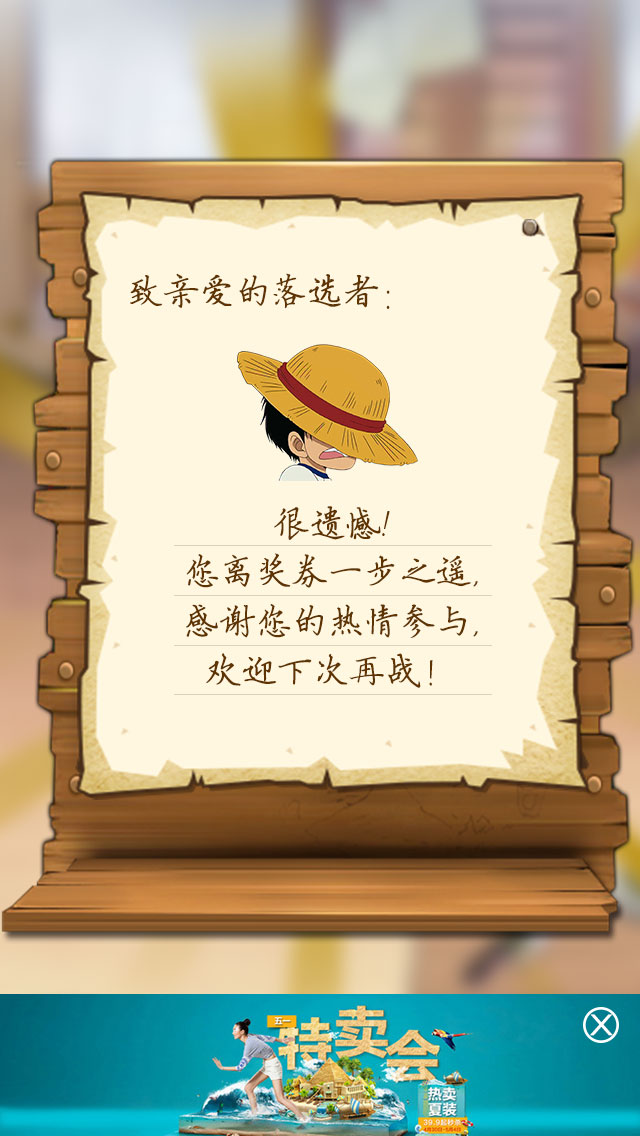
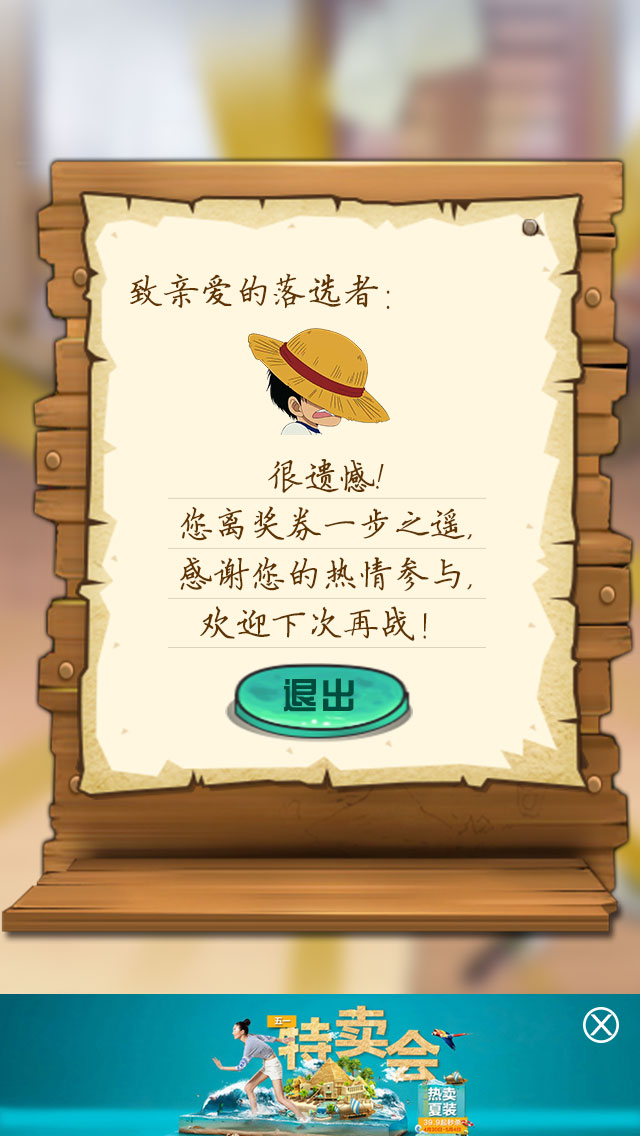
Exit Button
Add X Button on reward page, improve the toast.

Changed region(s): [[0.2812, 0.2773, 0.75, 0.6778]]

diff --git a/public/kiosk/assets/css/index.css b/public/kiosk/assets/css/index.css
@@ -1,5 +1,11 @@
 * { margin: 0; padding: 0; box-sizing: border-box; }
-body { font: 13px Helvetica, Arial; }
+body { 
+  font-size: 13px; 
+  font-family: Georgia, "Times New Roman", 
+             "Microsoft YaHei", "微软雅黑", 
+             STXihei, "华文细黑", 
+             serif;
+}
 
 .kiosk-wrap {
   position: relative;
@@ -141,70 +147,6 @@ section[class^="step"] {
 .countdown_go {
     background: url('../img/cd_go.png') no-repeat;
 }
-
-/*@-webkit-keyframes countdown {
-    0% {
-        background-image: url('../img/countdown3.jpg');
-    }
-    24.9% {
-        background-image: url('../img/countdown3.jpg');
-    }
-    25% {
-        background-image: url('../img/countdown2.jpg');
-    }
-    49.9% {
-        background-image: url('../img/countdown2.jpg');
-    }
-    50% {
-        background-image: url('../img/countdown1.jpg');
-    }
-    74.9% {
-        background-image: url('../img/countdown1.jpg');
-    }
-    75% {
-        background-image: url('../img/countdown_go.jpg');
-    }
-    100% {
-        background-image: url('../img/countdown_go.jpg');
-    }
-}
-@keyframes countdown {
-    0% {
-        background-image: url('../img/countdown3.jpg');
-    }
-    24.9% {
-        background-image: url('../img/countdown3.jpg');
-    }
-    25% {
-        background-image: url('../img/countdown2.jpg');
-    }
-    49.9% {
-        background-image: url('../img/countdown2.jpg');
-    }
-    50% {
-        background-image: url('../img/countdown1.jpg');
-    }
-    74.9% {
-        background-image: url('../img/countdown1.jpg');
-    }
-    75% {
-        background-image: url('../img/countdown_go.jpg');
-    }
-    100% {
-        background-image: url('../img/countdown_go.jpg');
-    }
-}
-
-.ani-countdown {
-    -webkit-animation-name: countdown;
-            animation-name: countdown;
-    -webkit-animation-duration: 3.8s;
-            animation-duration: 3.8s;
-    -webkit-animation-timing-function: ease-out;
-            animation-timing-function: ease-out;
-    -webkit-animation-fill-mode: forwards;
-            animation-fill-mode: forwards;
-}*/
 
 /*Game Stage*/
 .stage {
@@ -590,10 +532,10 @@ div[class^="beer"] {
   position: absolute;
   width: 50%;
   height: 100px;
-  background: rgba(255, 255, 255, 0.8);
+  background: rgba(0, 0, 0, 0.8);
   top: 50px;
   left: 25%;
-  border-radius: 15px;
+  border-radius: 50px;
   opacity: 0;
 }
 
@@ -612,6 +554,7 @@ div[class^="beer"] {
   margin-left: 130px;
   font-size: 40px;
   line-height: 100px;
+  color: #fff7e7;
 }
 
 .toast .info .playerName {

diff --git a/public/mobile/assets/css/index.css b/public/mobile/assets/css/index.css
@@ -272,6 +272,33 @@ html, body {
     cursor: pointer;
 }
 
+.step5 .banner {
+  position: absolute;
+  width: 234px;
+  height: 90px;
+  left: 50%;
+  margin-left: -117px;
+  top: 50%;
+  margin-top: -45px;
+  z-index: 110;
+}
+
+.step5 .banner_success {
+  background: url('../img/coupon_success.png') no-repeat;
+  background-size: contain;
+}
+
+.step5 .btn_close {
+  position: absolute;
+  width: 38px;
+  height:39px;
+  top: 35%;
+  right: 10%;
+  background: url("../img/icon_x.png") no-repeat;
+  display: none;
+  z-index: 110;
+}
+
 .step6 .btn_close {
     position: absolute;
     width: 200px;

diff --git a/public/kiosk/assets/js/index.js b/public/kiosk/assets/js/index.js
@@ -43,10 +43,15 @@ $(document).ready(function(){
     function syncPlayer(players){
         // console.log(players);
         console.log(currentStatus);
-        
+
         //special handle for player abort during playing
         if(currentStatus === GameStatus.PLAYING && players.length == 1){
             socket.emit("gameover",{winnerId:players[0].id});
+            return;
+        }
+
+        //special handle for lose player quit, still showing winner page
+        if(currentStatus === GameStatus.REWARDING && players.length == 1){
             return;
         }
 

diff --git a/public/mobile/assets/js/index.js b/public/mobile/assets/js/index.js
@@ -122,7 +122,10 @@ $(document).ready(function(){
 	        data: data
 	    }).done(function(data) {
 	        if (data == 1) {
-	        	alert("领取成功！");
+	        	// alert("领取成功！");
+	        	$(".mask").velocity({opacity:0.6}, {display:"block"});
+	        	$(".banner").addClass("banner_success");
+	        	$(".step5 .btn_close").velocity({opacity:1}, {display:"block"});
 	            return true;
 	        } else {
 	        	alert("领取失败！");

diff --git a/public/mobile/index.html b/public/mobile/index.html
@@ -35,6 +35,8 @@
     </section>
     <section class="step step5 result_win">
       <div class="btn_get_point"></div>
+      <div class="banner"></div>
+      <div class="btn_close"></div>
     </section>
     <section class="step step6 result_lose">
       <div class="btn_close"></div>
